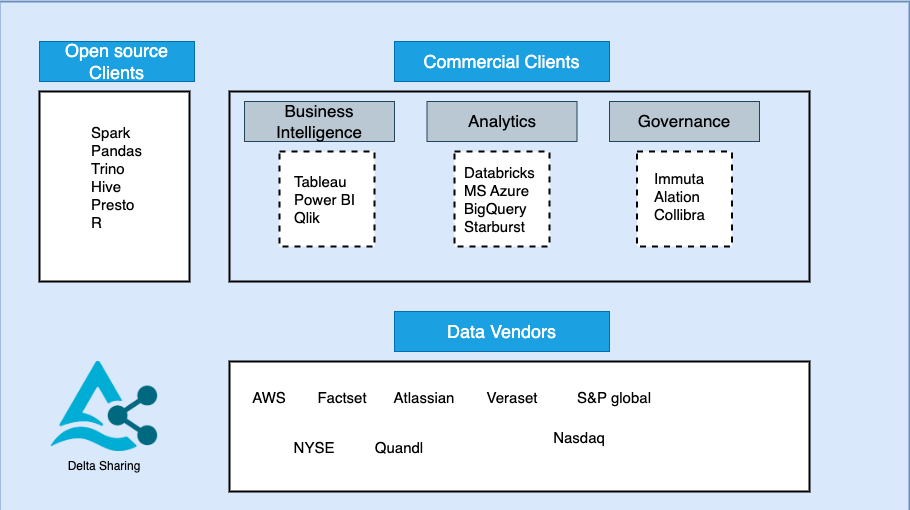
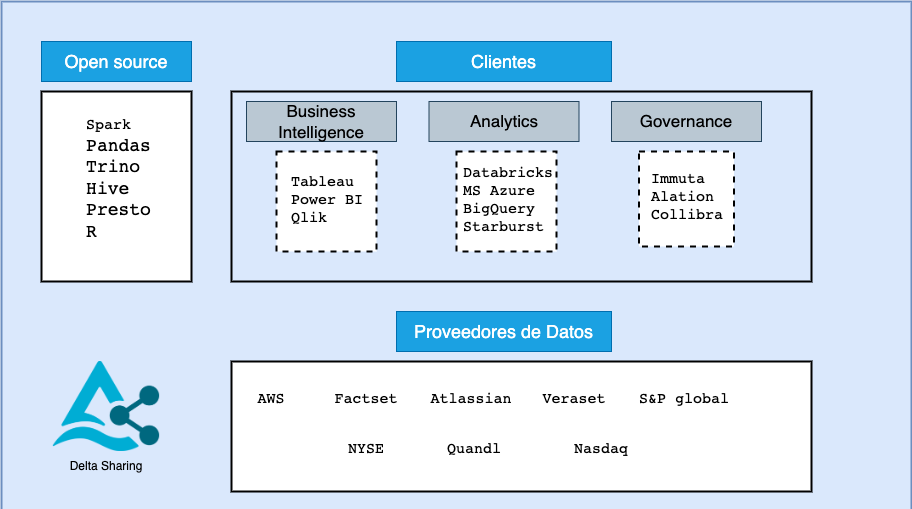
modify diagram

diff --git a/posts/introduccion-a-delta-sharing.md b/posts/introduccion-a-delta-sharing.md
@@ -14,7 +14,7 @@ image:
 # Introducción 
 [Delta Sharing](https://delta.io/sharing/) es un protocolo libre para intercambiar grandes cantidades de datos de forma segura en tiempo real entre organizaciones, accesa y transfiere de manera segura un conjunto de datos que se encuentra en systemas en la nube como AWS S3, Azure ADLS y Google GCS, esto permite una conexión y administración de los datos a consumidores de datos internos ó externos que no se enentran en la misma plataforma.
 
-## Ecosistema Delta Sharing
+## Ecosistema de Delta Sharing
 ![](https://github.com/asaldivar10/blog-usa/blob/spanish-delta_sharing/images/2023/02/deltasharing-eco.png)
 
 Una vez configurado, los clientes destino podrán acceder y conectarse de forma directa usando librerias como `pandas`, `Apache Spark` ó herramientas como `Databricks`, `Power BI` y `Tableau`, esto sin la necesidad de configurar y armar una infrastructura especializada, los clientes que cuentes con el acceso requerido podrán empezar a hacer uso los datos compartidos en minutos.
